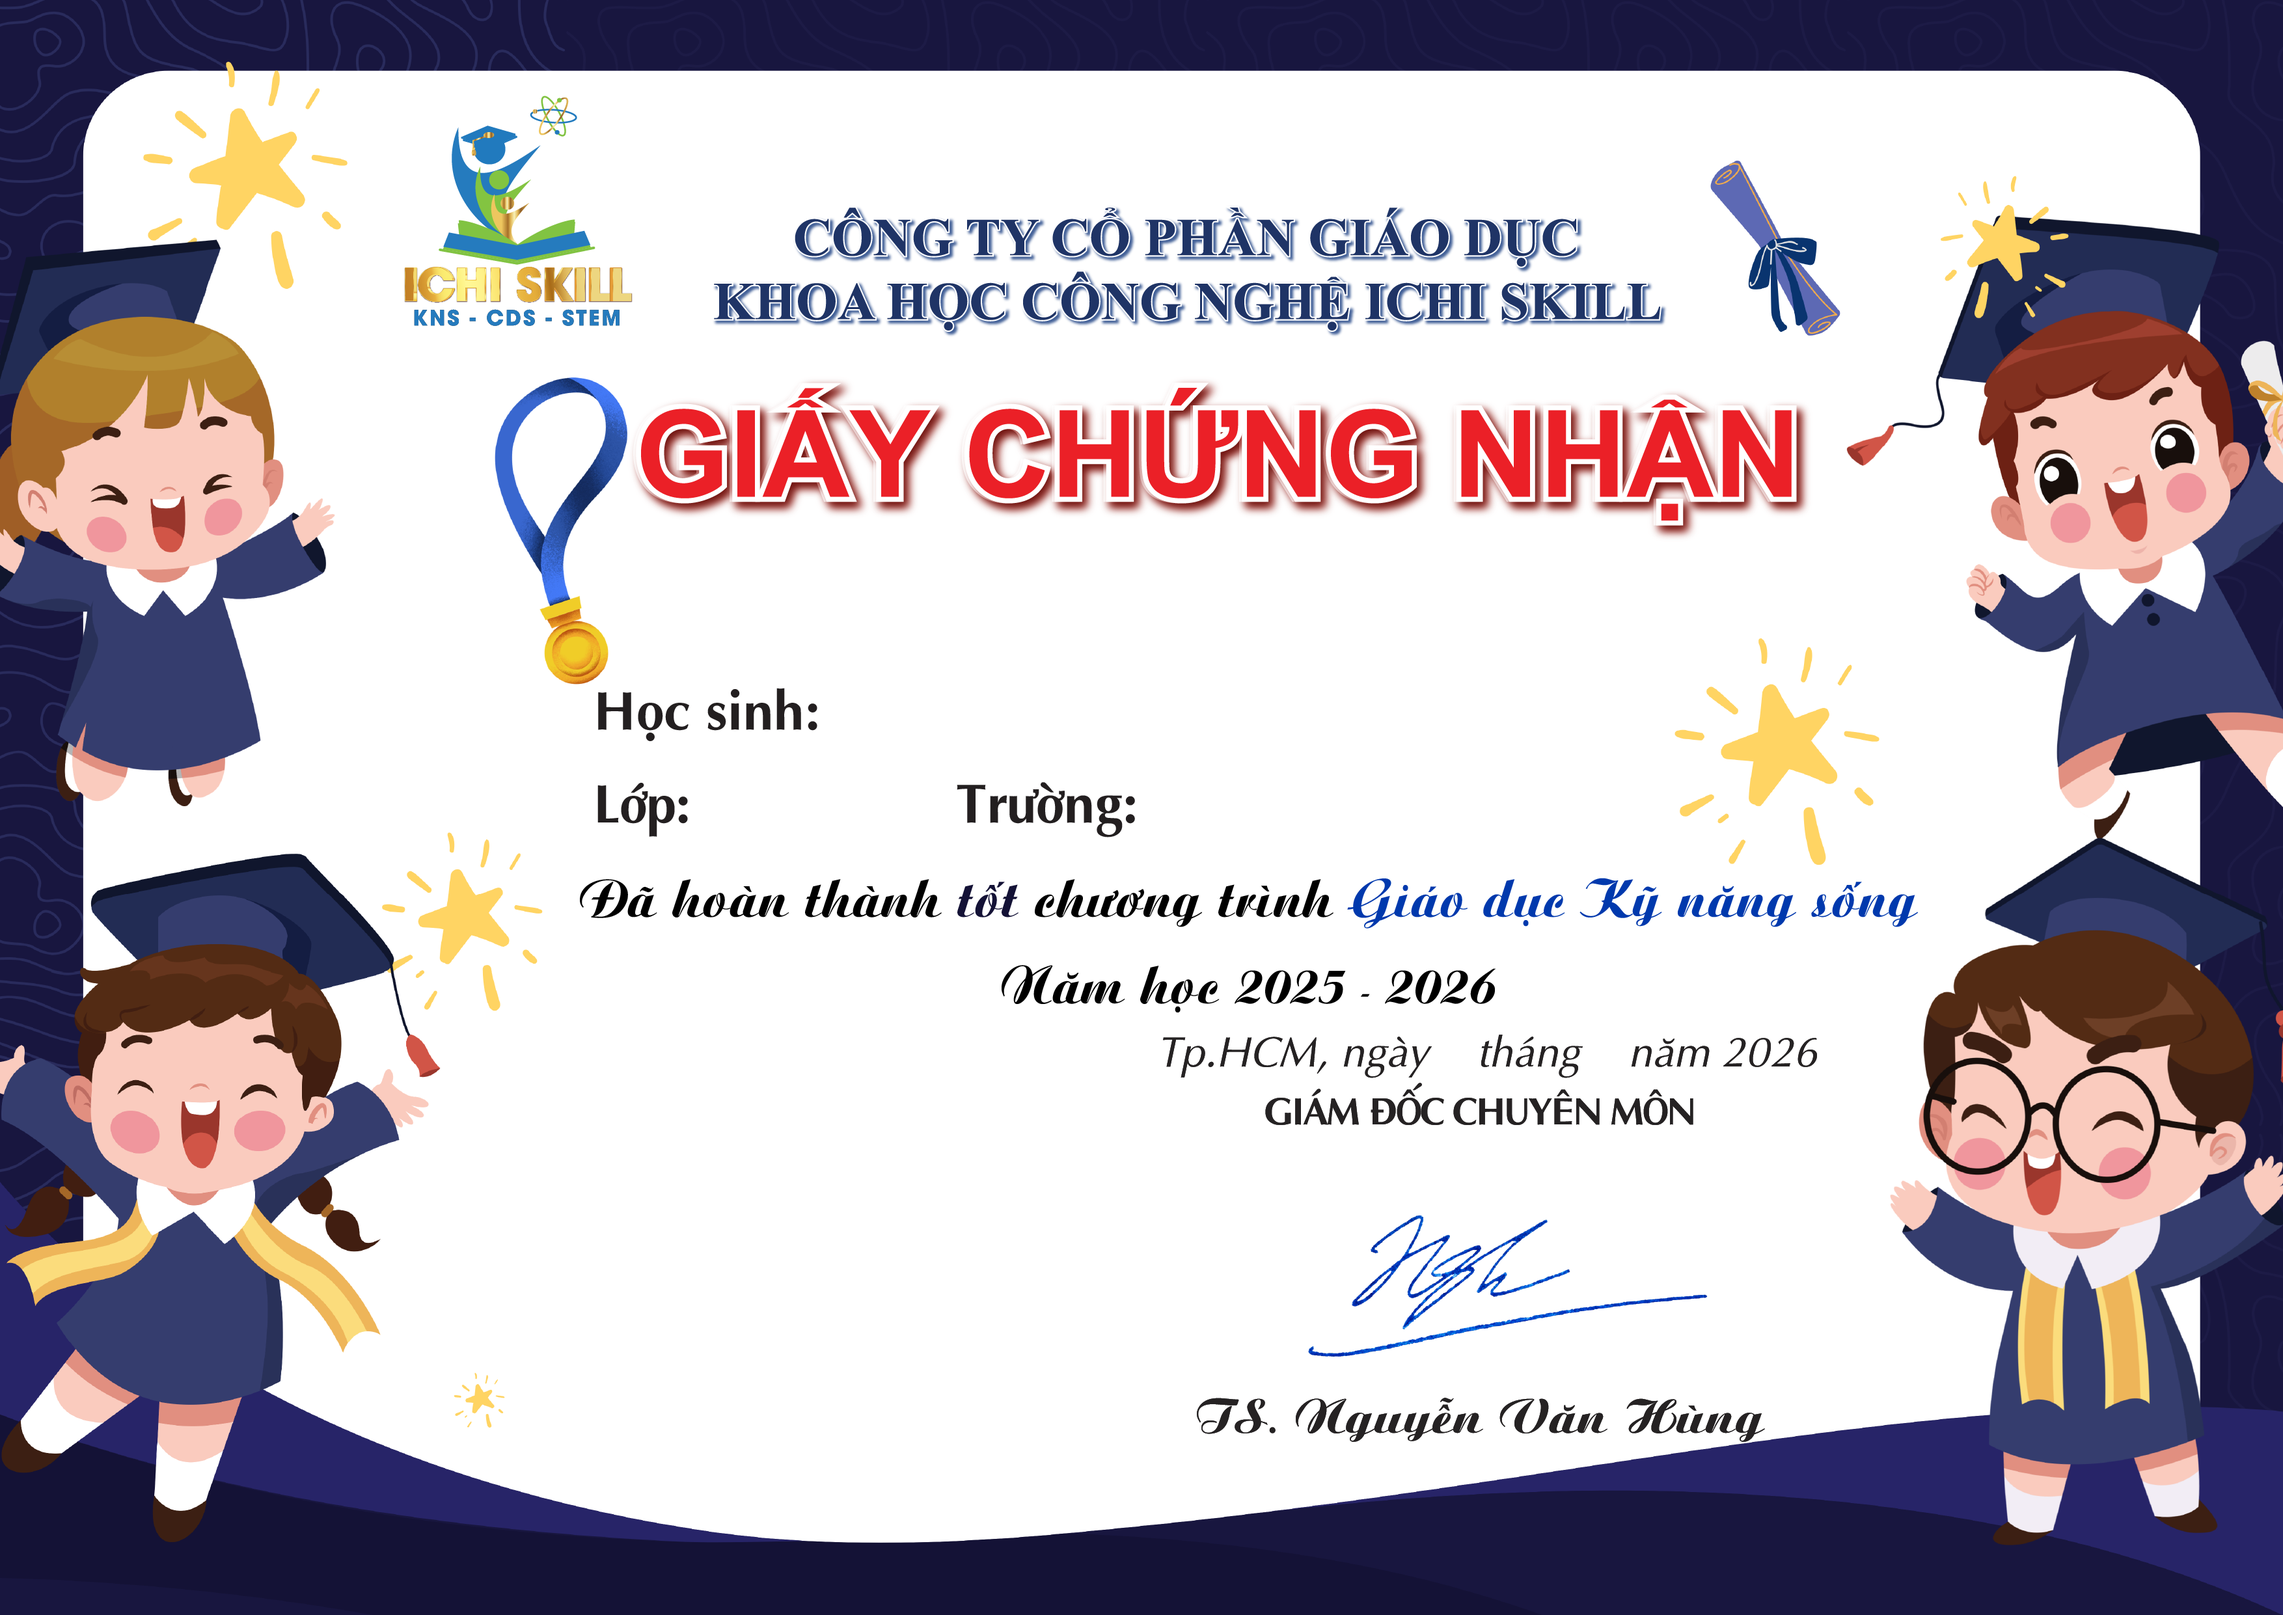
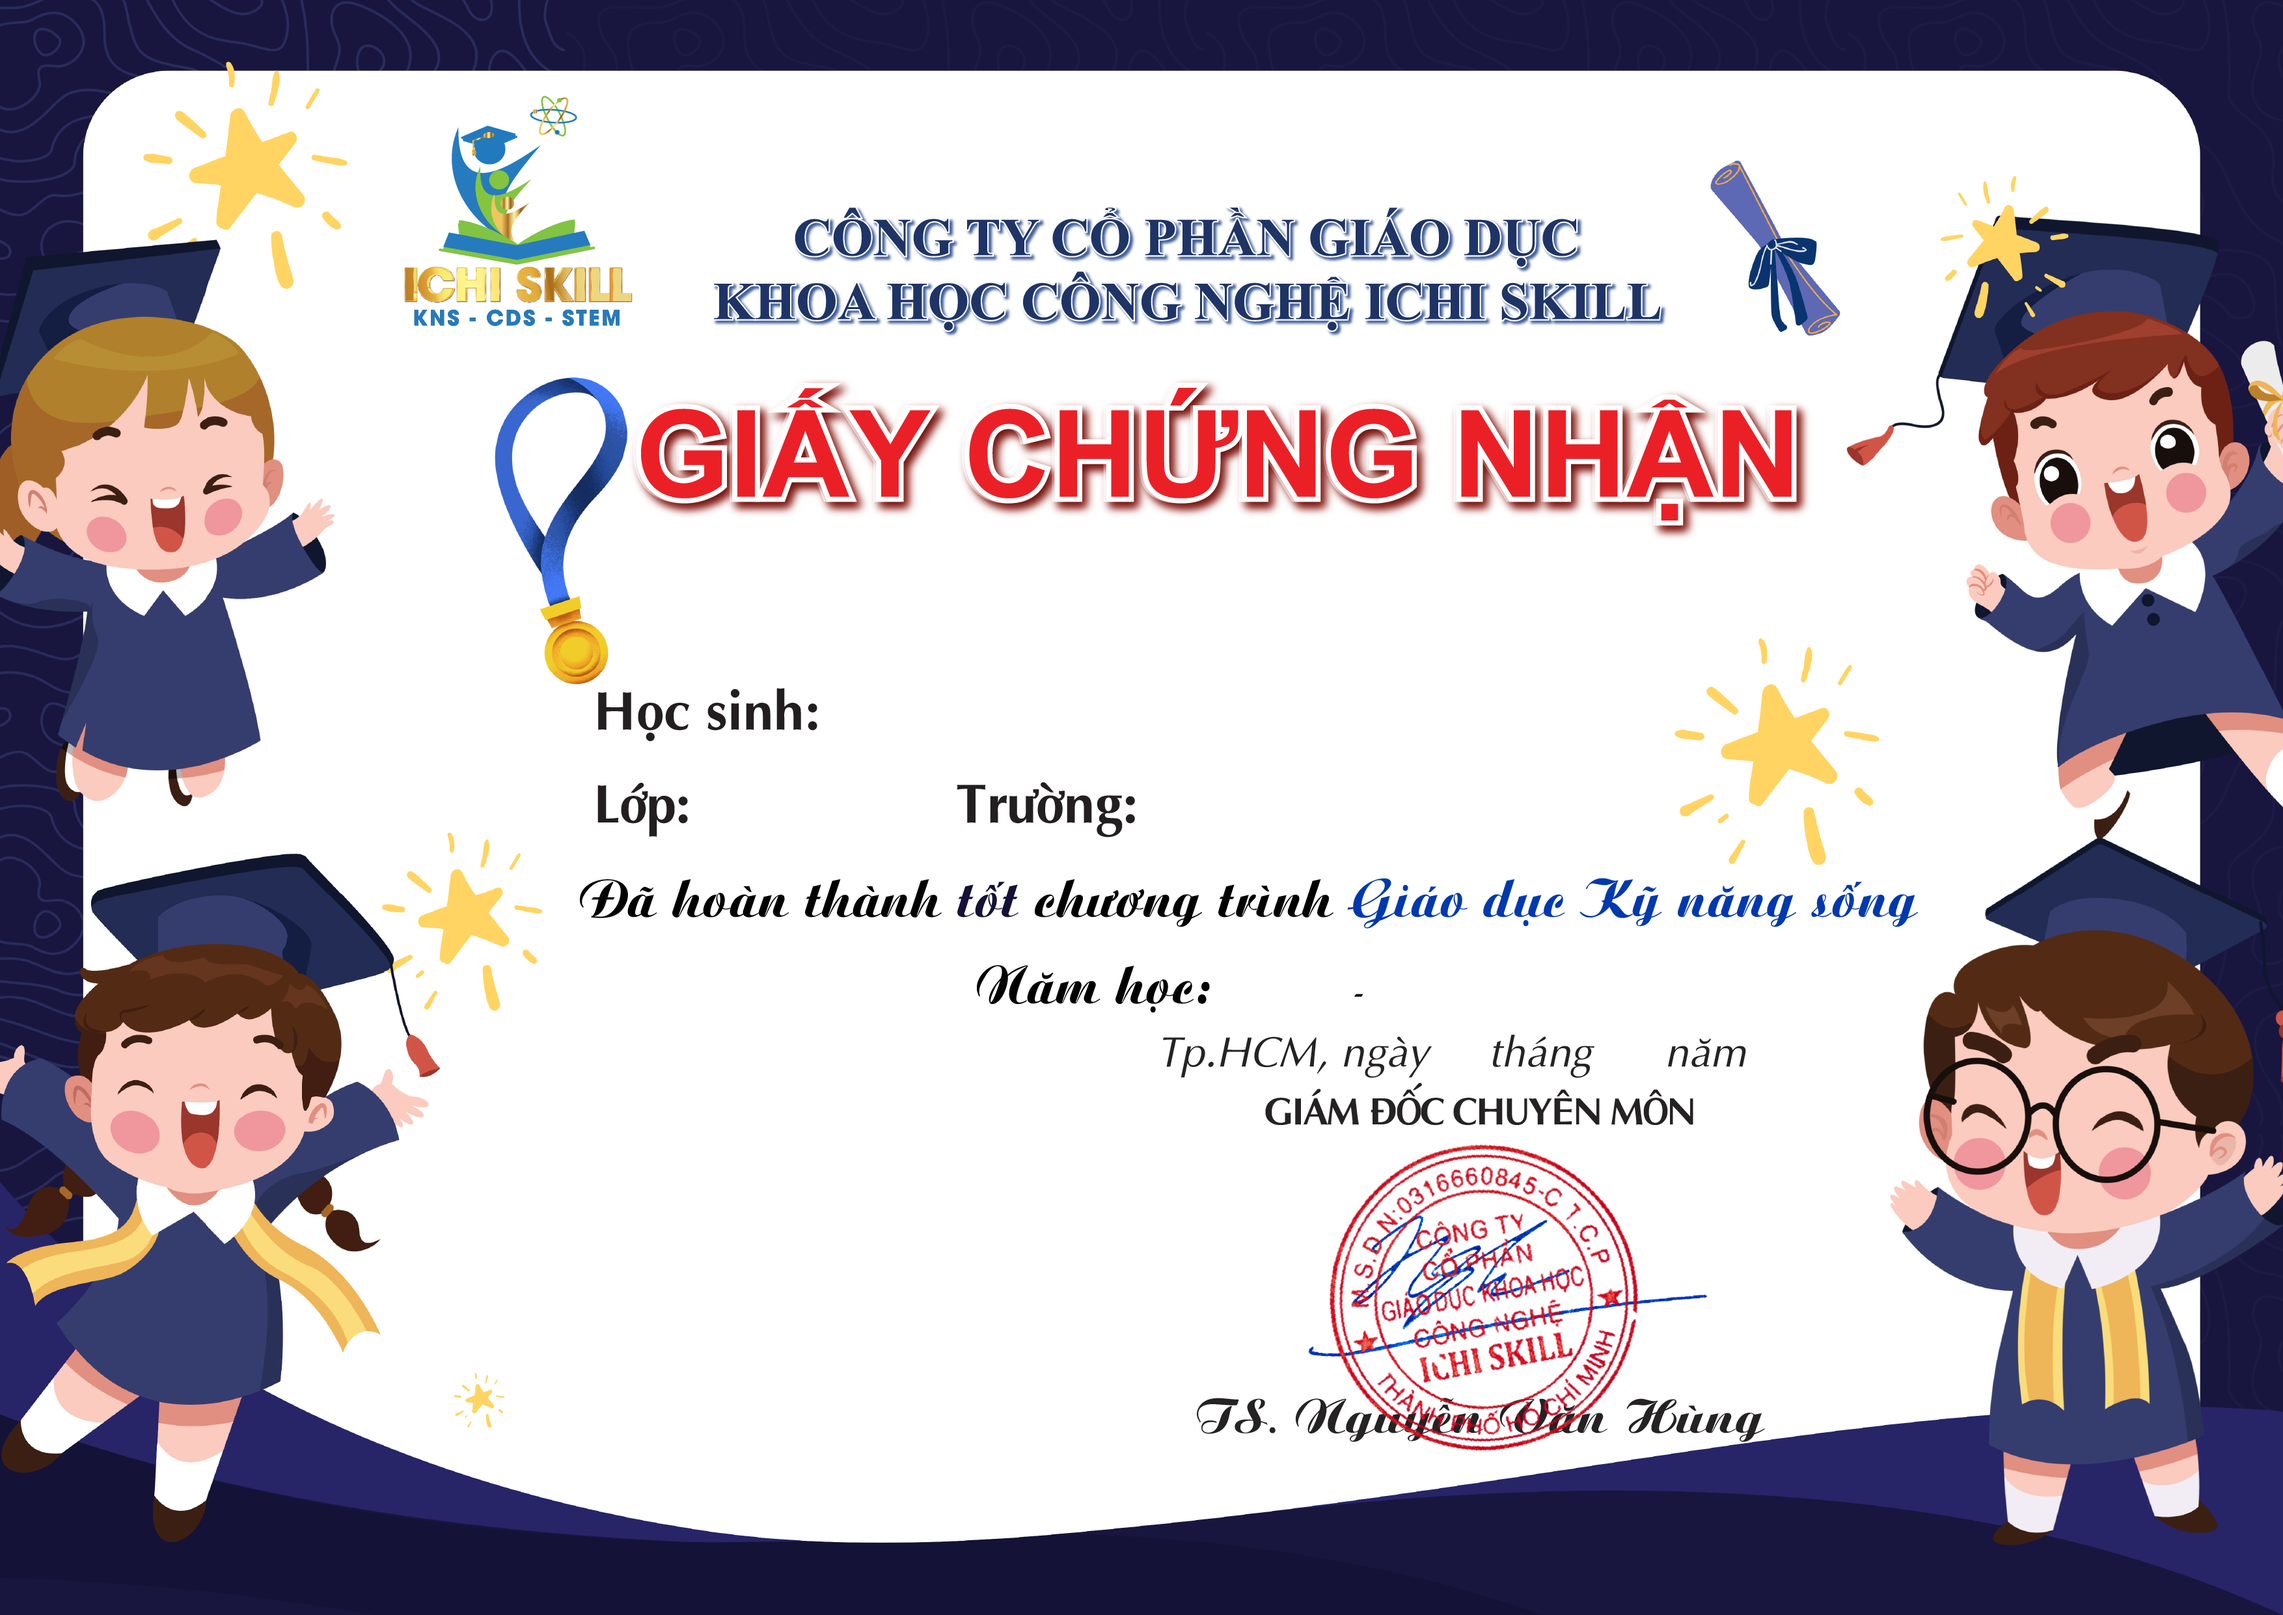
cập nhật ảnh chứng chỉ có dấu mộc

Changed region(s): [[0.5593, 0.7135, 0.7147, 0.8997], [0.435, 0.5894, 0.6525, 0.6205], [0.6525, 0.6515, 0.7768, 0.6825]]

diff --git a/src/index.css b/src/index.css
@@ -10,7 +10,6 @@
 
 @media print {
 
-  /* 🔥 QUAN TRỌNG: ép đúng khổ + xoá margin */
   @page {
     size: A4 landscape;
     margin: 0;
@@ -19,11 +18,11 @@
   html, body {
     margin: 0;
     padding: 0;
+    width: 100%;
     height: 100%;
     overflow: hidden;
   }
 
-  /* 🔥 ẨN toàn bộ ngoài chứng chỉ */
   body * {
     visibility: hidden;
   }
@@ -32,29 +31,24 @@
     visibility: visible;
   }
 
-  /* 🔥 CHỈ HIỂN THỊ 1 KHỐI DUY NHẤT */
   #print-area {
     position: fixed;
     top: 0;
     left: 0;
 
-    width: 100%;
-    height: 100%;
+    width: 100vw;
+    height: 100vh;
 
     display: flex;
     justify-content: center;
     align-items: center;
-
-    page-break-inside: avoid;
-    break-inside: avoid;
   }
 
-  /* 🔥 SCALE CHUẨN để KHÔNG bị tràn */
+  /* 🔥 QUAN TRỌNG: KHÔNG SCALE */
   #print-area > * {
-    width: 1000px;
-    height: 700px;
+    width: 100vw;
+    height: 100vh;
 
-    transform: scale(0.95); /* 👈 chỉnh 0.9 - 1 nếu cần */
-    transform-origin: center;
+    transform: none !important;
   }
 }

diff --git a/src/components/profile/CertificateView.jsx b/src/components/profile/CertificateView.jsx
@@ -1,6 +1,8 @@
 import React from "react";
 import { useLocation } from "react-router-dom";
 import Certificate from "./Certificate";
+import html2canvas from "html2canvas";
+import jsPDF from "jspdf";
 
 const CertificateView = () => {
   const { state } = useLocation();

diff --git a/src/components/profile/Certificate.jsx b/src/components/profile/Certificate.jsx
@@ -43,6 +43,7 @@ const Certificate = forwardRef(({ data }, ref) => {
       style={{
         width: "842px",
         height: "595px",
+        
         position: "relative",
         fontFamily: "Times New Roman, serif",
       }}

diff --git a/src/components/profile/ProfileCertificate.jsx b/src/components/profile/ProfileCertificate.jsx
@@ -125,7 +125,7 @@ const handleOpenNewTab = (cert) => {
         </div>
       )}
 
-      {/* 🔥 MODAL XEM CERT */}
+     
       {/* 🔥 MODAL XEM CERT */}
 {selectedCert && (
   <div
